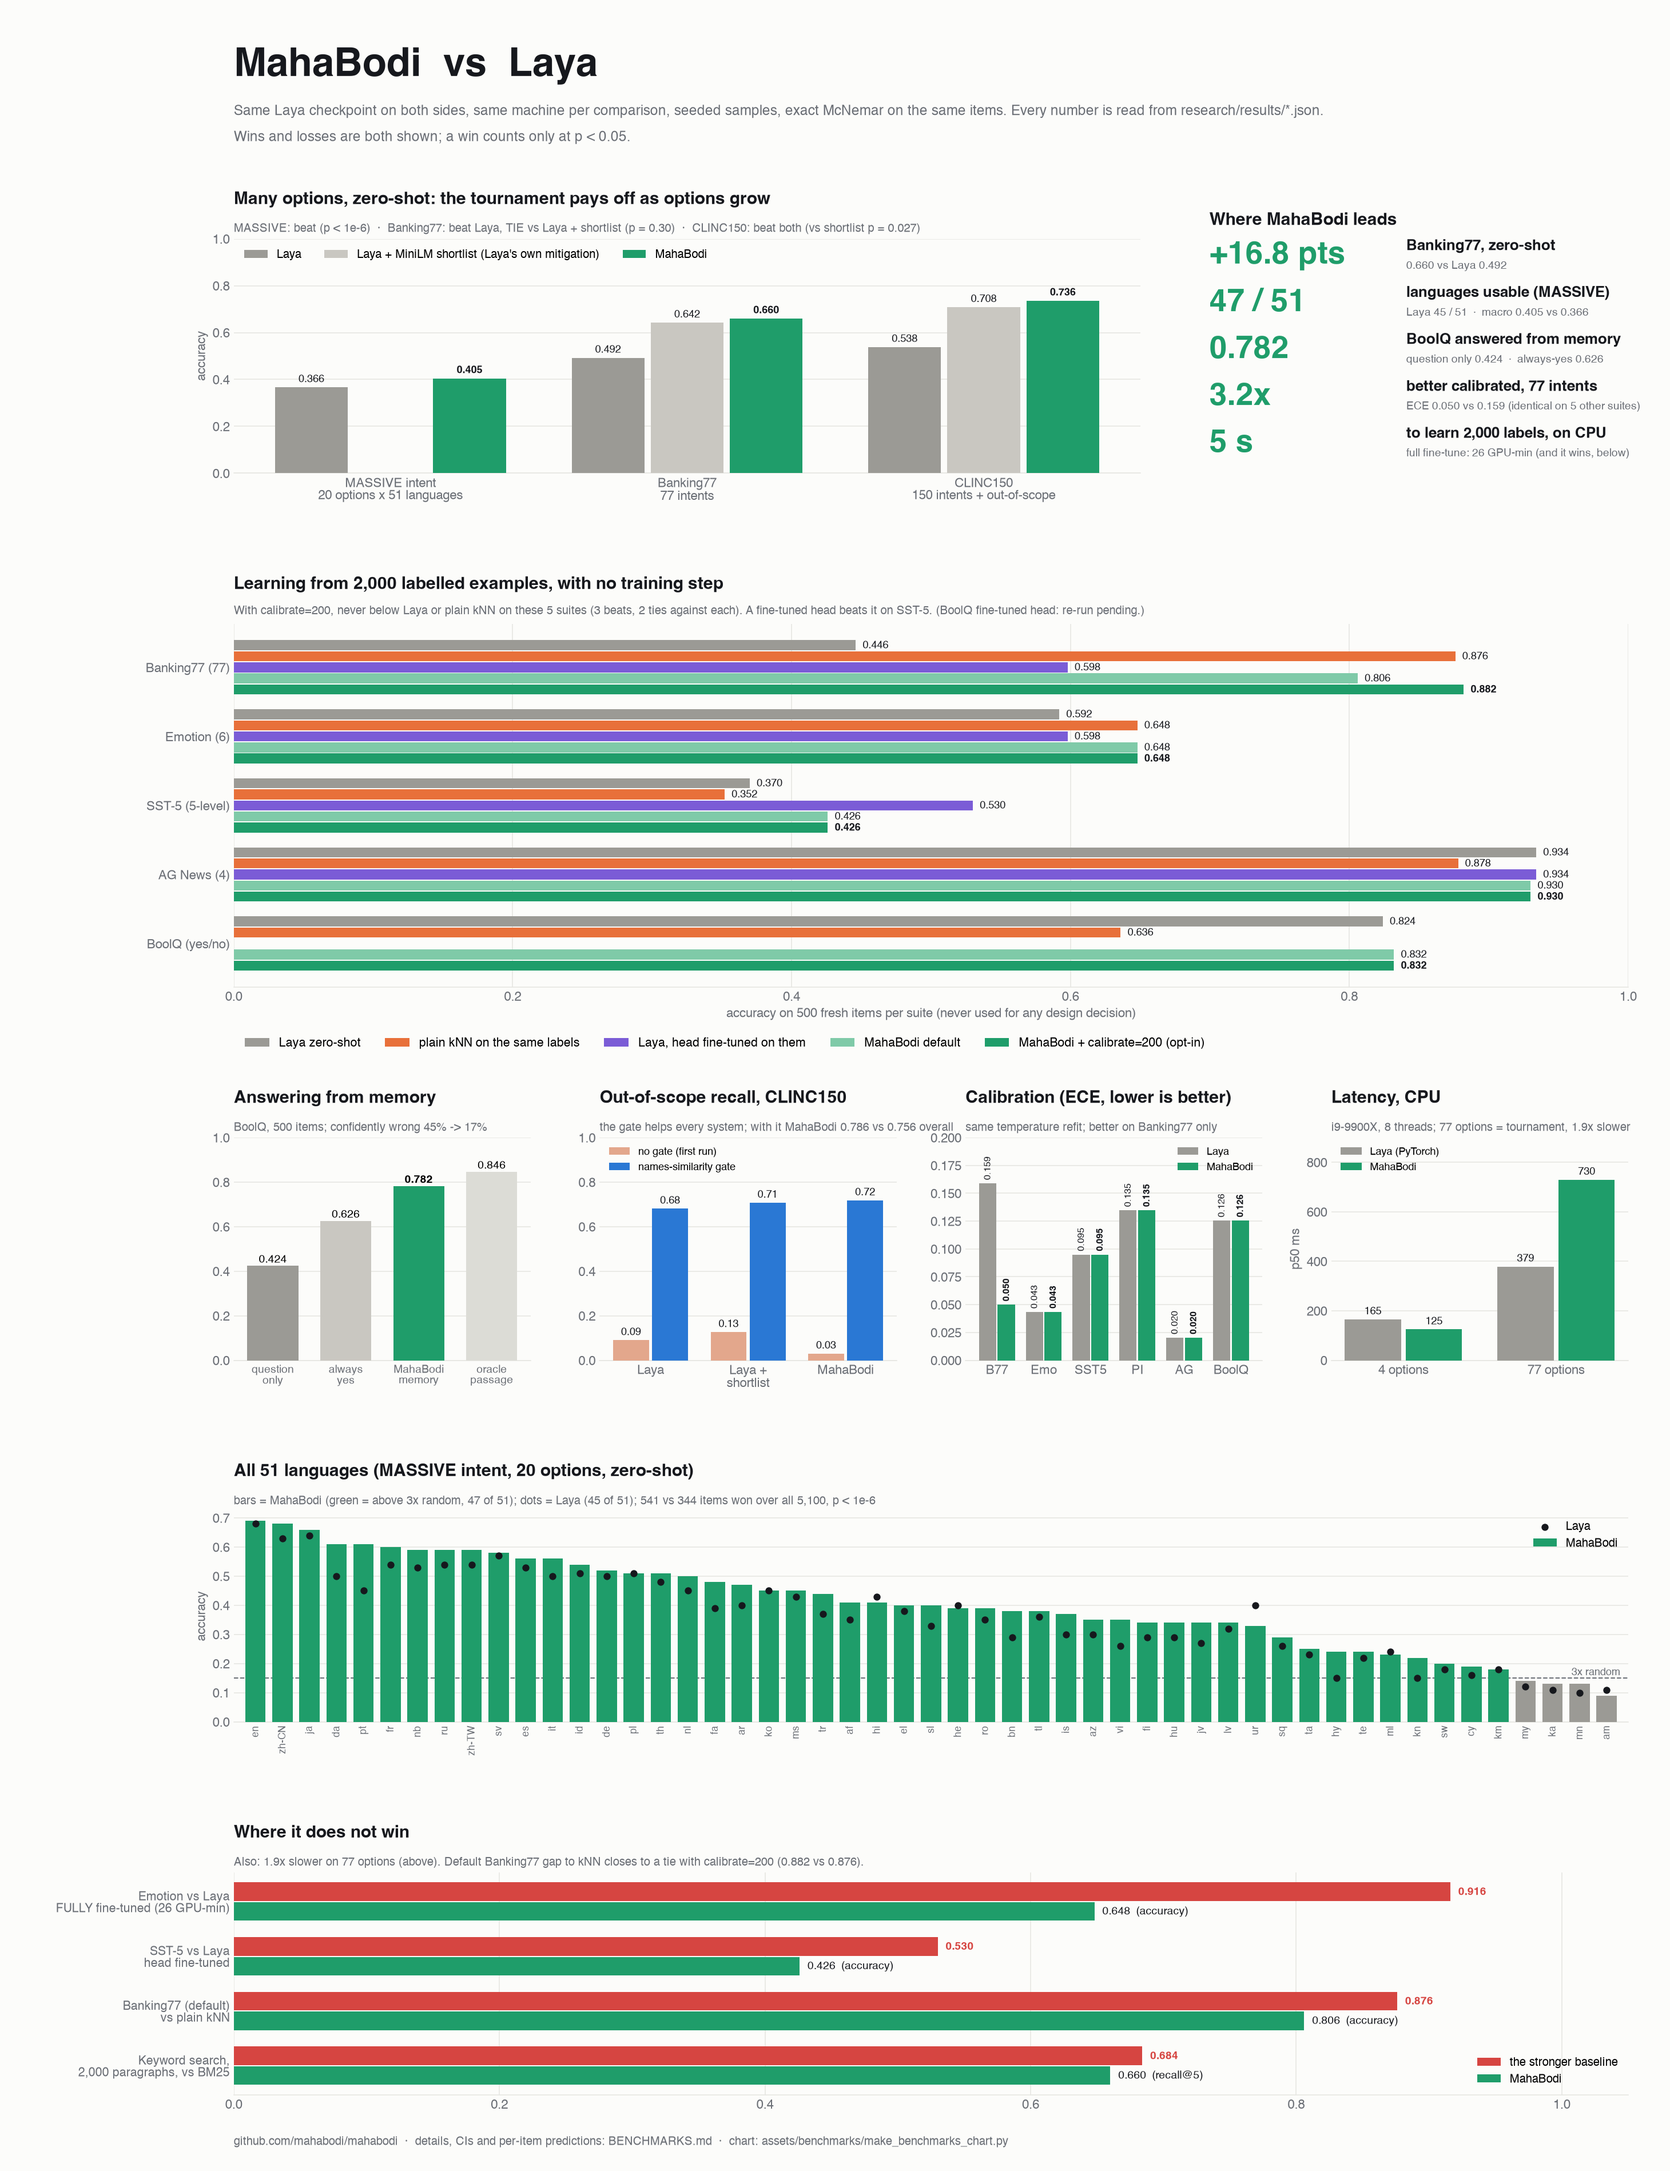
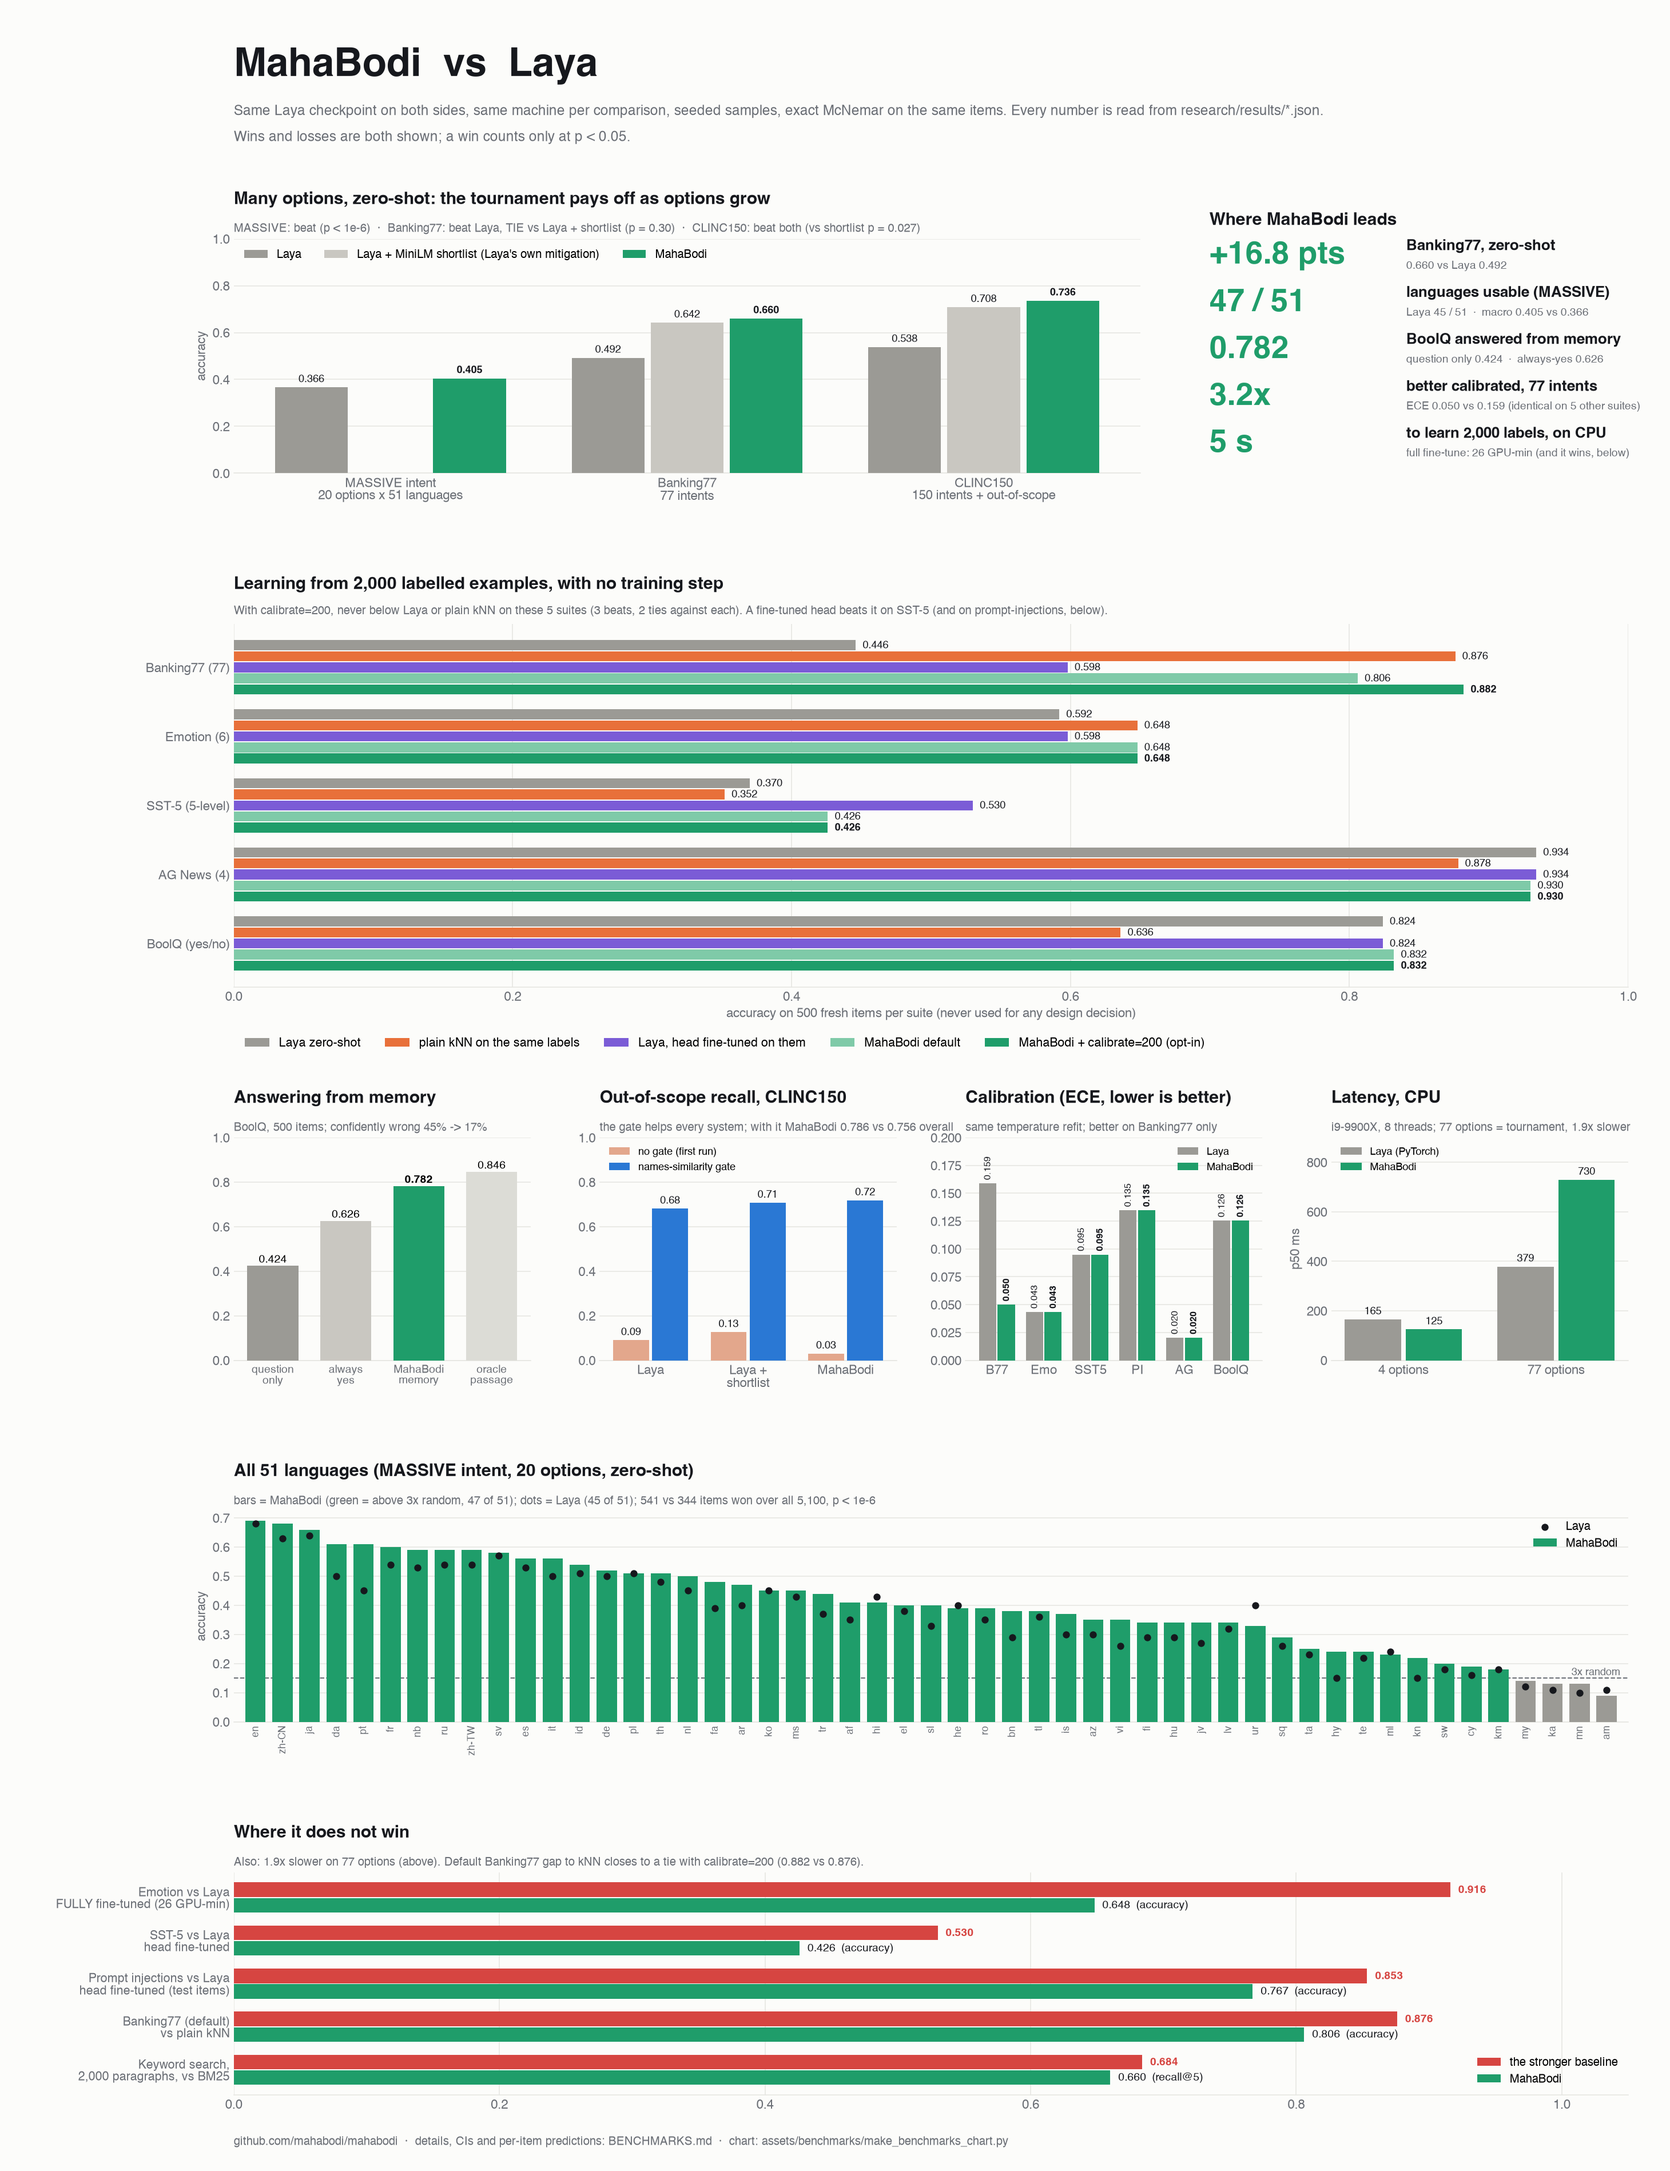
Benchmark chart: valid boolq head-FT bar; prompt-injections head-FT loss row

Changed region(s): [[0.0623, 0.8704, 0.8414, 0.9636]]

diff --git a/assets/benchmarks/make_benchmarks_chart.py b/assets/benchmarks/make_benchmarks_chart.py
@@ -61,6 +61,9 @@ def main():
     oos, ground, ece = J("bench_clinc_oos.json"), J("bench_grounding_v2.json"), J("bench_ece.json")["suites"]
     fresh, lat = J("bench_fresh3_experience.json")["suites"], J("latency_ubuntu_i9-9900X.json")
     ft_mac, ft_ub, ft_full = J("laya_head_finetuned.json")["suites"], J("laya_head_finetuned_ubuntu.json")["suites"], J("laya_full_finetuned.json")["suites"]
+    ft_v4 = J("laya_head_finetuned_ubuntu_v4.json")["suites"]  # boolq / prompt_injections re-run with the math SDP kernel (NaN fix)
+    ft_ub = {**ft_ub, **ft_v4}
+    exp_first = J("bench_experience.json")["suites"]
     retr = J("retrieval_2000.json")["systems"]
 
     fig = plt.figure(figsize=(20, 26), dpi=146, facecolor=BG)
@@ -109,9 +112,7 @@ def main():
     ax = fig.add_subplot(gs[1, :]); style(ax, ygrid=False); ax.xaxis.grid(True, color=GRID, lw=0.8); ax.set_axisbelow(True)
     suites = ["banking77", "emotion", "sst5", "ag_news", "boolq"]
     names = {"banking77": "Banking77 (77)", "emotion": "Emotion (6)", "sst5": "SST-5 (5-level)", "ag_news": "AG News (4)", "boolq": "BoolQ (yes/no)"}
-    # boolq's GPU head-only run hit NaN encodings (attention-kernel bug on padded rows): invalid until re-run
-    INVALID_HEAD = {"boolq"}
-    head = {s: (None if s in INVALID_HEAD else (ft_mac.get(s) or ft_ub.get(s))) for s in suites}
+    head = {s: (ft_mac.get(s) or ft_ub.get(s)) for s in suites}
     rows = [("Laya zero-shot", LAYA, lambda s: fresh[s]["laya_torch"]["accuracy"]),
             ("plain kNN on the same labels", KNN, lambda s: fresh[s]["knn_own"]["accuracy"]),
             ("Laya, head fine-tuned on them", FT, lambda s: head[s]["fresh3"]["accuracy"] if head[s] and "fresh3" in head[s] else None),
@@ -130,7 +131,7 @@ def main():
     ax.set_xlim(0, 1.0); ax.set_xlabel("accuracy on 500 fresh items per suite (never used for any design decision)")
     ax.set_title("Learning from 2,000 labelled examples, with no training step")
     sub(ax, "With calibrate=200, never below Laya or plain kNN on these 5 suites (3 beats, 2 ties against each). "
-        "A fine-tuned head beats it on SST-5. (BoolQ fine-tuned head: re-run pending.)")
+        "A fine-tuned head beats it on SST-5 (and on prompt-injections, below).")
     ax.legend(frameon=False, loc="lower left", bbox_to_anchor=(0, -0.2), ncol=5, fontsize=10.5)
 
     # 3a. grounded BoolQ
@@ -189,6 +190,8 @@ def main():
     losses = [
         ("Emotion vs Laya\nFULLY fine-tuned (26 GPU-min)", em, fe["fresh3"]["accuracy"], "accuracy"),
         ("SST-5 vs Laya\nhead fine-tuned", ss, ft_ub["sst5"]["fresh3"]["accuracy"], "accuracy"),
+        ("Prompt injections vs Laya\nhead fine-tuned (test items)", acc(exp_first["prompt_injections"]["bodi_experience_per_suite"]["pred"], bench["prompt_injections"]["gold"]),
+         ft_v4["prompt_injections"]["test_accuracy"], "accuracy"),
         ("Banking77 (default)\nvs plain kNN", fresh["banking77"]["gated_agree"]["accuracy"], fresh["banking77"]["knn_own"]["accuracy"], "accuracy"),
         ("Keyword search,\n2,000 paragraphs, vs BM25", retr["bodi_hybrid"]["keywords"]["recall@5"], retr["bm25"]["keywords"]["recall@5"], "recall@5"),
     ]
